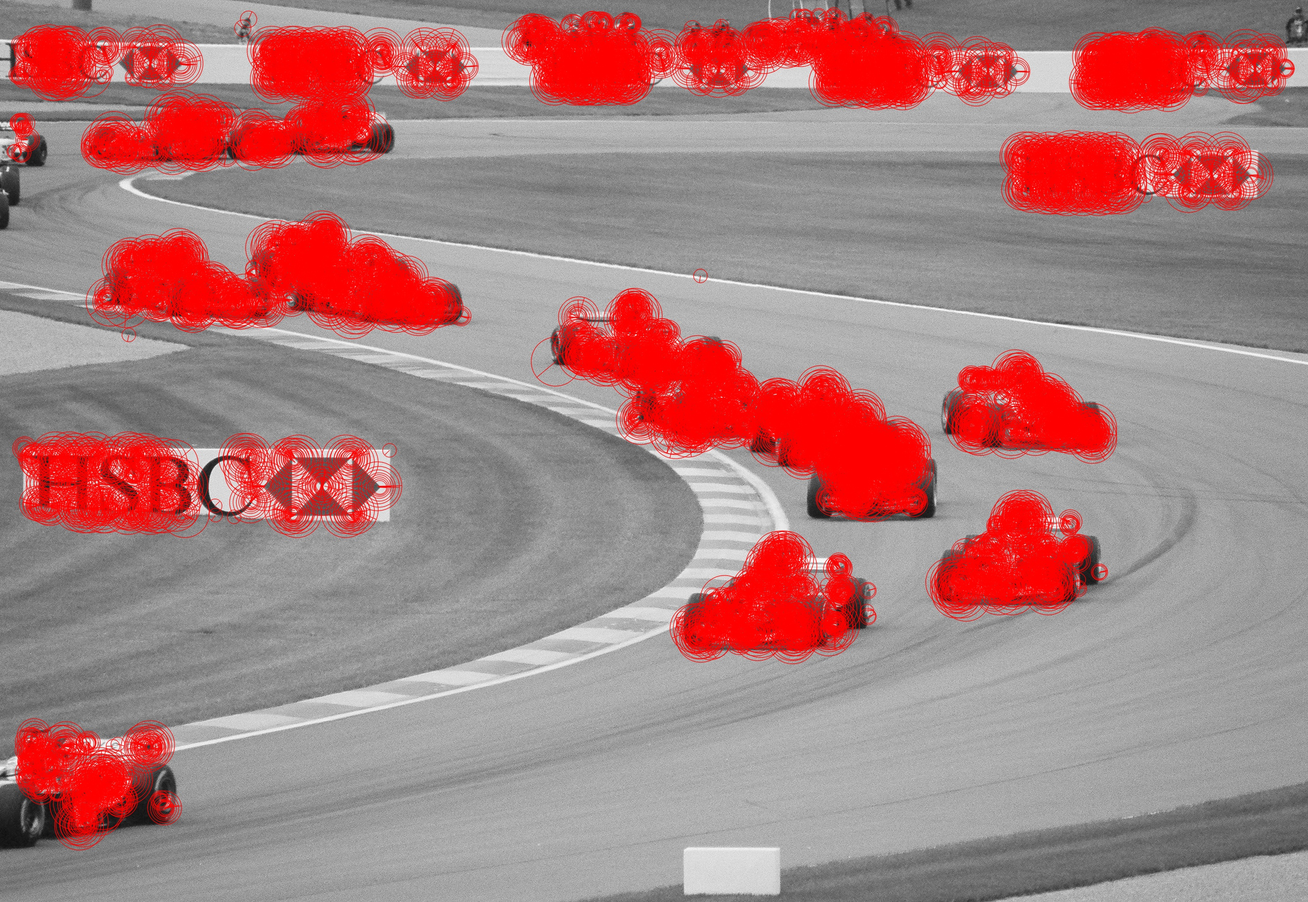
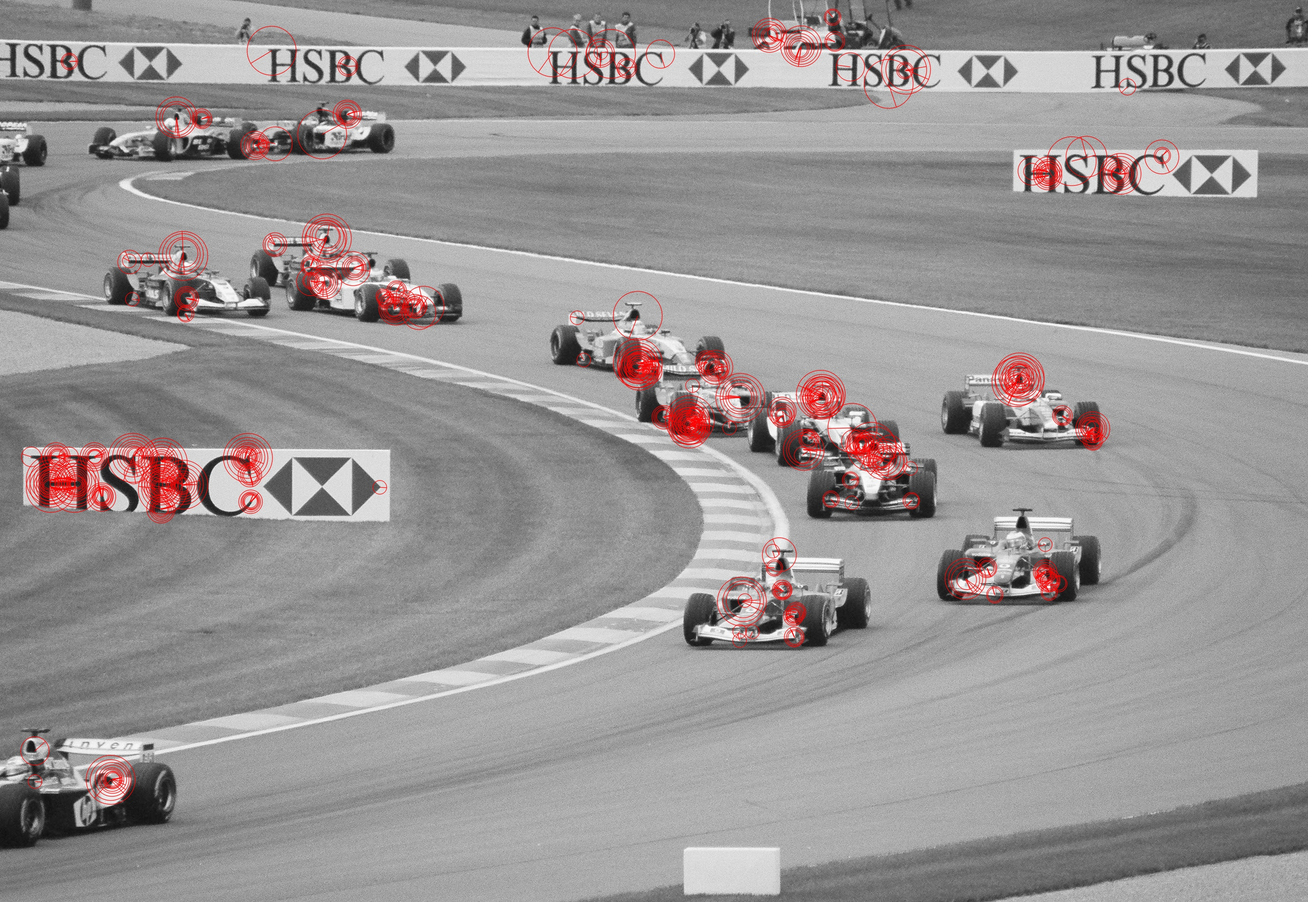
new code

diff --git a/main.py b/main.py
@@ -2,7 +2,14 @@ import cv2
 import matplotlib.pyplot as plt
 from matplotlib.pyplot import figure
 from time import perf_counter
+import argparse
+import numpy as np
 
+parser = argparse.ArgumentParser()
+parser.add_argument("-d", "--detector", help="Select between sift and orb.")
+parser.parse_args()
+
+valid_detectors = ("sift", "orb")
 IMG_PATH = "f1.jpg"
 
 def save_image(img_name, img):
@@ -23,26 +30,53 @@ def load_image(path):
 
 def detect_features(img, detection_method):
     if detection_method == "orb":
-        detector = cv2.ORB_create(nfeatures=11298)
+        detector = cv2.ORB_create()
     elif detection_method == "sift":
         detector = cv2.SIFT_create()
     else:
          raise Exception("Please select a method from orb and sift.")
     
     start = perf_counter()
-    features = detector.detect(img)
+    keypoints, descriptors = detector.detectAndCompute(img, None)
     end = perf_counter()
     print(f"Time taken by {detection_method} is {end-start}")
-    return features, end-start
+    return keypoints, descriptors
 
 def main():
-    img = load_image(IMG_PATH)
-    print("Image shape: ", img.shape)
-    keypoints, time_taken_by_detector = detect_features(img, "orb")
-    print("Number of keypoints: ", len(keypoints))
-    output_image = cv2.drawKeypoints(img, keypoints, 0, (0, 0, 255), flags=cv2.DRAW_MATCHES_FLAGS_DRAW_RICH_KEYPOINTS)    
+    detector = parser.parse_args().detector
+    if detector not in valid_detectors:
+        raise Exception("Please select between sift or orb.")
+    img1 = load_image(IMG_PATH)
+    keypoints1, descriptors1 = detect_features(img1, detector)
     #show_image(output_image)
-    save_image("image_with_keypoints_orb.jpg", output_image)
+    img2 = img1.copy()
+    img2 = img2[1200: 1500, 1500:2000]
+    keypoints2, descriptors2 = detect_features(img2, detector)
+    print("Number of keypoints in image 1: ", len(keypoints1))
+    print("Number of descriptors in image 1: ", len(descriptors1))    
+    print("Number of keypoints in image 2: ", len(keypoints2))
+    print("Number of descriptors in image 2: ", len(descriptors2))
+    if detector=="orb":
+        norm = cv2.NORM_HAMMING
+    else:
+        norm = cv2.NORM_L2
+    matcher = cv2.BFMatcher(normType=norm, crossCheck=True)
+    matches = matcher.match(descriptors1, descriptors2, None)
+    matches_to_display = matches[:300] + matches[-300:]
+    matched_image = cv2.drawMatches(img1,keypoints1,img2,keypoints2,matches_to_display,None,flags=cv2.DrawMatchesFlags_NOT_DRAW_SINGLE_POINTS)
+    show_image(matched_image)
+
+    ## Filtering good matches
+    matcher = cv2.BFMatcher()
+    matches = matcher.knnMatch(descriptors1, descriptors2, k=2)
+    good_matches = []
+    for m,n in matches:
+        if m.distance < 0.20*n.distance:
+            good_matches.append([m])
     
+    matched_image = cv2.drawMatchesKnn(img1,keypoints1,img2,keypoints2,good_matches,None,flags=cv2.DrawMatchesFlags_NOT_DRAW_SINGLE_POINTS)
+    #show_image(matched_image)
+    
+
 if __name__=="__main__":
     main()
